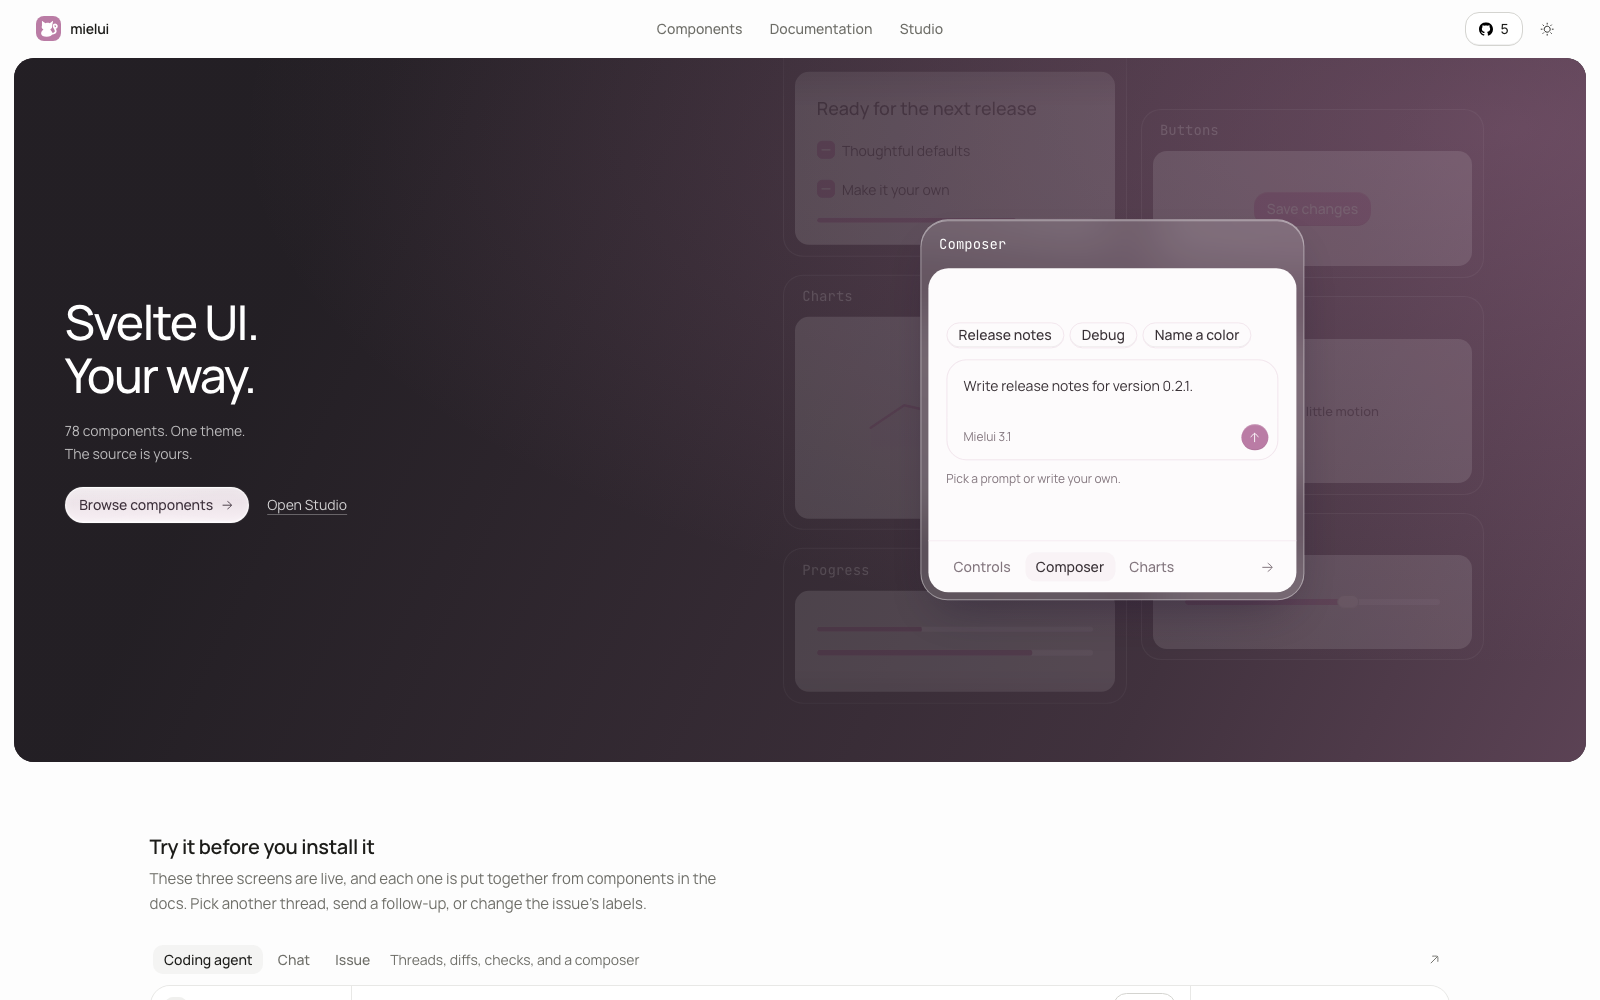
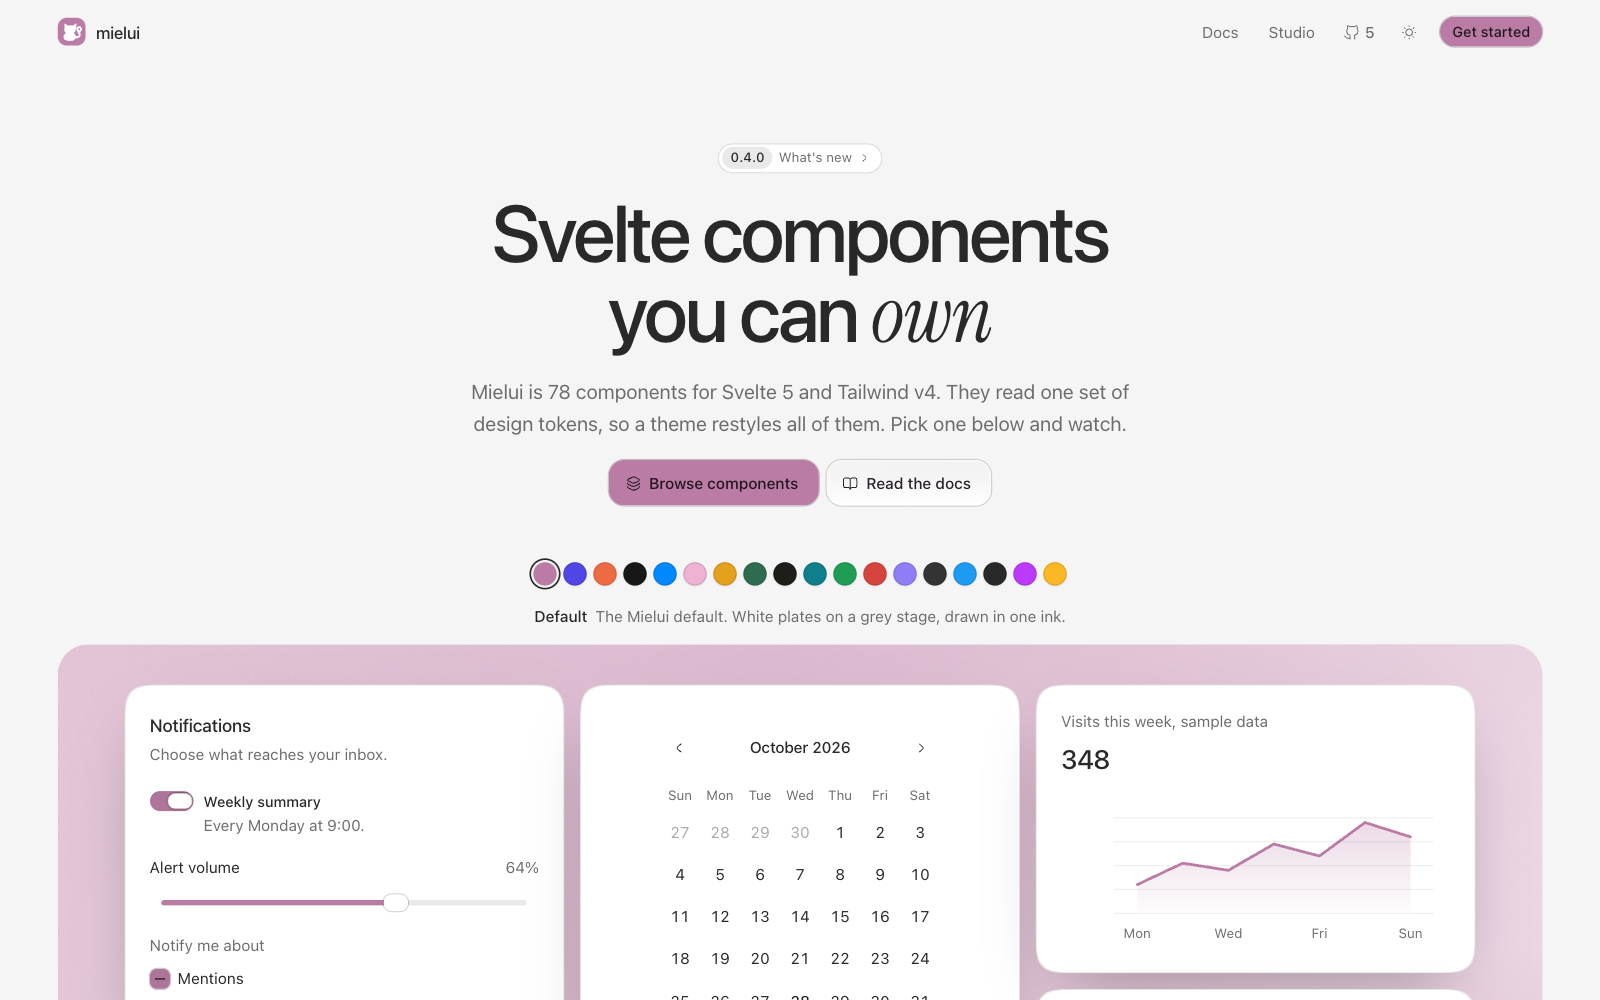
chore(release): v0.4.0 (#29)
Bumps @mielui/svelte to 0.4.0. Release notes are in changelog/0.4.0/.

diff --git a/apps/docs/src/lib/components/home/wall.svelte b/apps/docs/src/lib/components/home/wall.svelte
@@ -29,7 +29,7 @@
     const prompts = [
         {
             label: 'Release notes',
-            text: 'Write release notes for version 0.3.0.'
+            text: 'Write release notes for version 0.4.0.'
         },
         {
             label: 'Name a color',

diff --git a/UPSTREAM.md b/UPSTREAM.md
@@ -8,7 +8,7 @@ Use Mielui's source and documentation as the reference for this package. Sivir U
 
 - Imported commit: `1b71c2a5d00c46a9b74508d08f836fc0e913858c`.
 - Imported package version: `0.3.3`.
-- Mielui's release sequence began at `0.1.0`; this release is `0.3.0`.
+- Mielui's release sequence began at `0.1.0`; this release is `0.4.0`.
 - License: MIT. Aidan Neel's copyright and permission notice remain in `LICENSE`, alongside the notice for Mielui modifications.
 
 The original import renamed the project, package, CLI, configuration, and documentation links. Subsequent Mielui work includes component composition changes, form and upload behavior, chart components, shared interaction and motion rules, Theme Studio, and documentation. These changes do not remove the attribution or license requirements for inherited code.

diff --git a/packages/mielui/UPSTREAM.md b/packages/mielui/UPSTREAM.md
@@ -8,7 +8,7 @@ Use Mielui's source and documentation as the reference for this package. Sivir U
 
 - Imported commit: `1b71c2a5d00c46a9b74508d08f836fc0e913858c`.
 - Imported package version: `0.3.3`.
-- Mielui's release sequence began at `0.1.0`; this release is `0.3.0`.
+- Mielui's release sequence began at `0.1.0`; this release is `0.4.0`.
 - License: MIT. Aidan Neel's copyright and permission notice remain in `LICENSE`, alongside the notice for Mielui modifications.
 
 The original import renamed the project, package, CLI, configuration, and documentation links. Subsequent Mielui work includes component composition changes, form and upload behavior, chart components, shared interaction and motion rules, Theme Studio, and documentation. These changes do not remove the attribution or license requirements for inherited code.

diff --git a/docs/README.md b/docs/README.md
@@ -6,7 +6,7 @@ Current Mielui documentation lives with the code it describes:
 - [Agent skill](../skills/mielui/SKILL.md): guidance for composing and customizing Mielui.
 - [Design contracts](../DESIGN.md): shared appearance and interaction requirements.
 - [Contributing](../CONTRIBUTING.md) and [setup and publishing](../SETUP.md): repository workflow and release instructions.
-- [Mielui changelog](../changelog/): Mielui releases, including v0.3.0.
+- [Mielui changelog](../changelog/): Mielui releases, including v0.4.0.
 - [Upstream attribution](../UPSTREAM.md): the Sivir UI foundation and retained notices.
 
 The [upstream changelog](./upstream-changelog/) is a historical archive of Sivir UI releases. Its version numbers and API guidance do not describe current Mielui releases.

diff --git a/skills/mielui/SKILL.md b/skills/mielui/SKILL.md
@@ -13,7 +13,7 @@ Mielui began from Sivir UI and is maintained independently, with its own compone
 
 Inspect the project before changing code:
 
-1. Confirm the installed Mielui release's peer requirements. Mielui 0.3.0 requires Svelte 5.56 or newer within Svelte 5 and Tailwind CSS v4.
+1. Confirm the installed Mielui release's peer requirements. Mielui 0.4.0 requires Svelte 5.56 or newer within Svelte 5 and Tailwind CSS v4.
 2. Read the package manifest, lockfile, global CSS entry, and nearby Svelte components.
 3. Detect the integration mode:
    - Package mode: `@mielui/svelte` is a dependency and components import from it.

diff --git a/README.md b/README.md
@@ -6,7 +6,7 @@ Svelte components for building interfaces with a shared visual system. Use them 
 
 <img
   src="apps/docs/static/readme-homepage.png"
-  alt="Mielui homepage with the Svelte UI. Your way. heading and interactive component showcase"
+  alt="Mielui homepage with the Svelte components you can own heading, theme swatches, and a wall of live components"
   style="border: 1px solid hsl(0, 1%, 92%); border-radius: 18px; box-shadow: 0 2px 6px hsl(0 0% 0% / 0.03);"
 />
 
